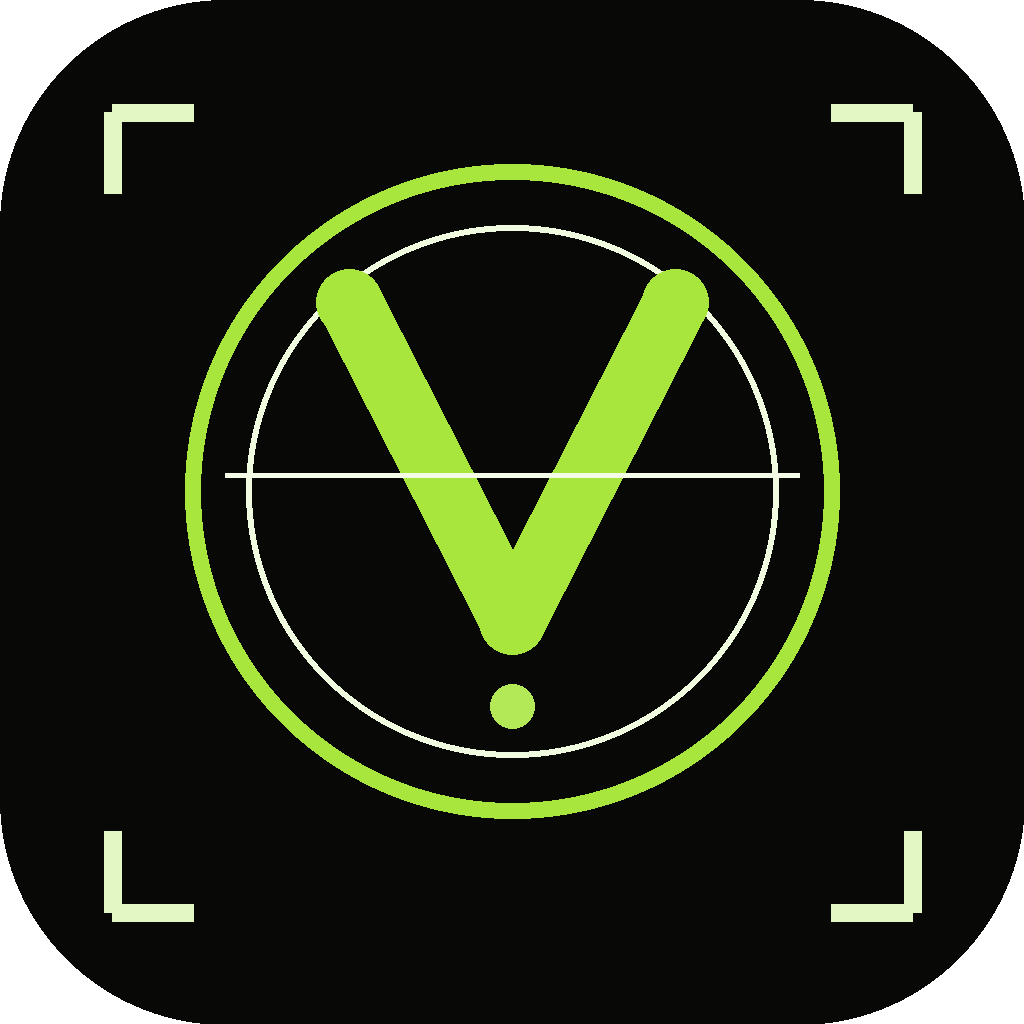
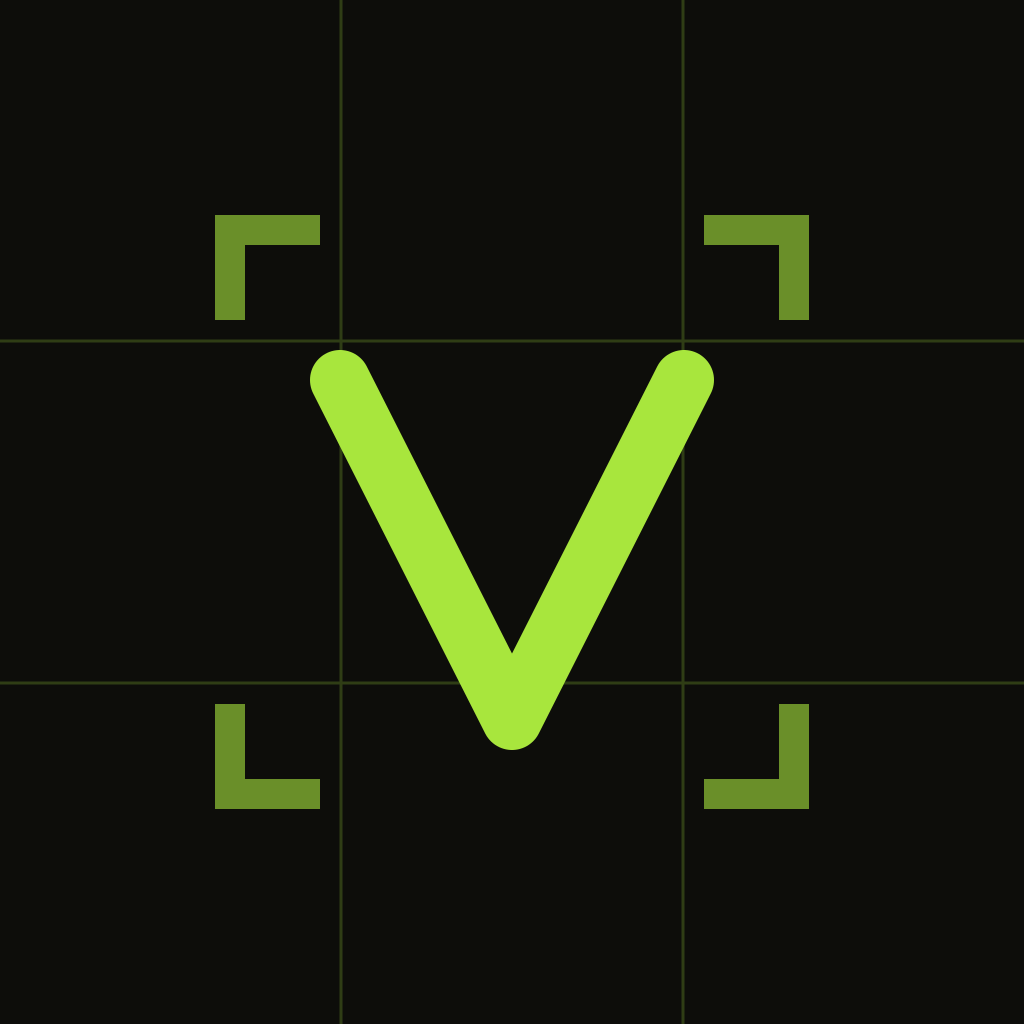
Remove non-functional social login buttons + Apple Sign-In entitlement (review-safe email/password auth)

diff --git a/src/screens/LoginScreen.tsx b/src/screens/LoginScreen.tsx
@@ -6,8 +6,6 @@ import {
 } from "react-native";
 import { SafeAreaView } from "react-native-safe-area-context";
 import { C } from "../lib/theme";
-import AppleLogo from "../components/AppleLogo";
-import GoogleLogo from "../components/GoogleLogo";
 import {
   isBiometricAvailable, isBiometricEnabled, enableBiometric,
   authenticateWithBiometrics, getBiometricEmail, getBiometricLabel,
@@ -157,9 +155,6 @@ export default function LoginScreen({ onLogin }: Props) {
     setForgotLoad(false);
   }
 
-  function handleSocialSignIn(provider: "apple" | "google") {
-    setError(`${provider === "apple" ? "Apple" : "Google"} Sign In requires the installed app. Please use email/password below.`);
-  }
 
   // ── FORGOT SENT SCREEN ──────────────────────────────────────────
   if (forgotSent) return (
@@ -200,25 +195,6 @@ export default function LoginScreen({ onLogin }: Props) {
           <Text style={s.sub}>{mode === "signup" ? "Start finding profitable flips today." : mode === "forgot" ? "Enter your email to receive a 6-digit code." : mode === "reset" ? "Enter the code we emailed you and your new password." : "Sign in to your account."}</Text>
 
           {error ? <View style={s.errorBox}><Text style={s.errorTxt}>{error}</Text></View> : null}
-
-          {/* Social buttons - only on sign in/up */}
-          {mode !== "forgot" && mode !== "reset" && (
-            <>
-              <TouchableOpacity style={s.appleBtn} onPress={() => handleSocialSignIn("apple")} activeOpacity={0.85}>
-                <AppleLogo size={18} color="#fff"/>
-                <Text style={s.appleBtnTxt}>Sign in with Apple</Text>
-              </TouchableOpacity>
-              <TouchableOpacity style={s.googleBtn} onPress={() => handleSocialSignIn("google")} activeOpacity={0.85}>
-                <GoogleLogo size={20}/>
-                <Text style={s.googleBtnTxt}>Sign in with Google</Text>
-              </TouchableOpacity>
-              <View style={s.divider}>
-                <View style={s.dividerLine}/>
-                <Text style={s.dividerTxt}>or</Text>
-                <View style={s.dividerLine}/>
-              </View>
-            </>
-          )}
 
           {/* Email */}
           {mode !== "reset" && <TextInput